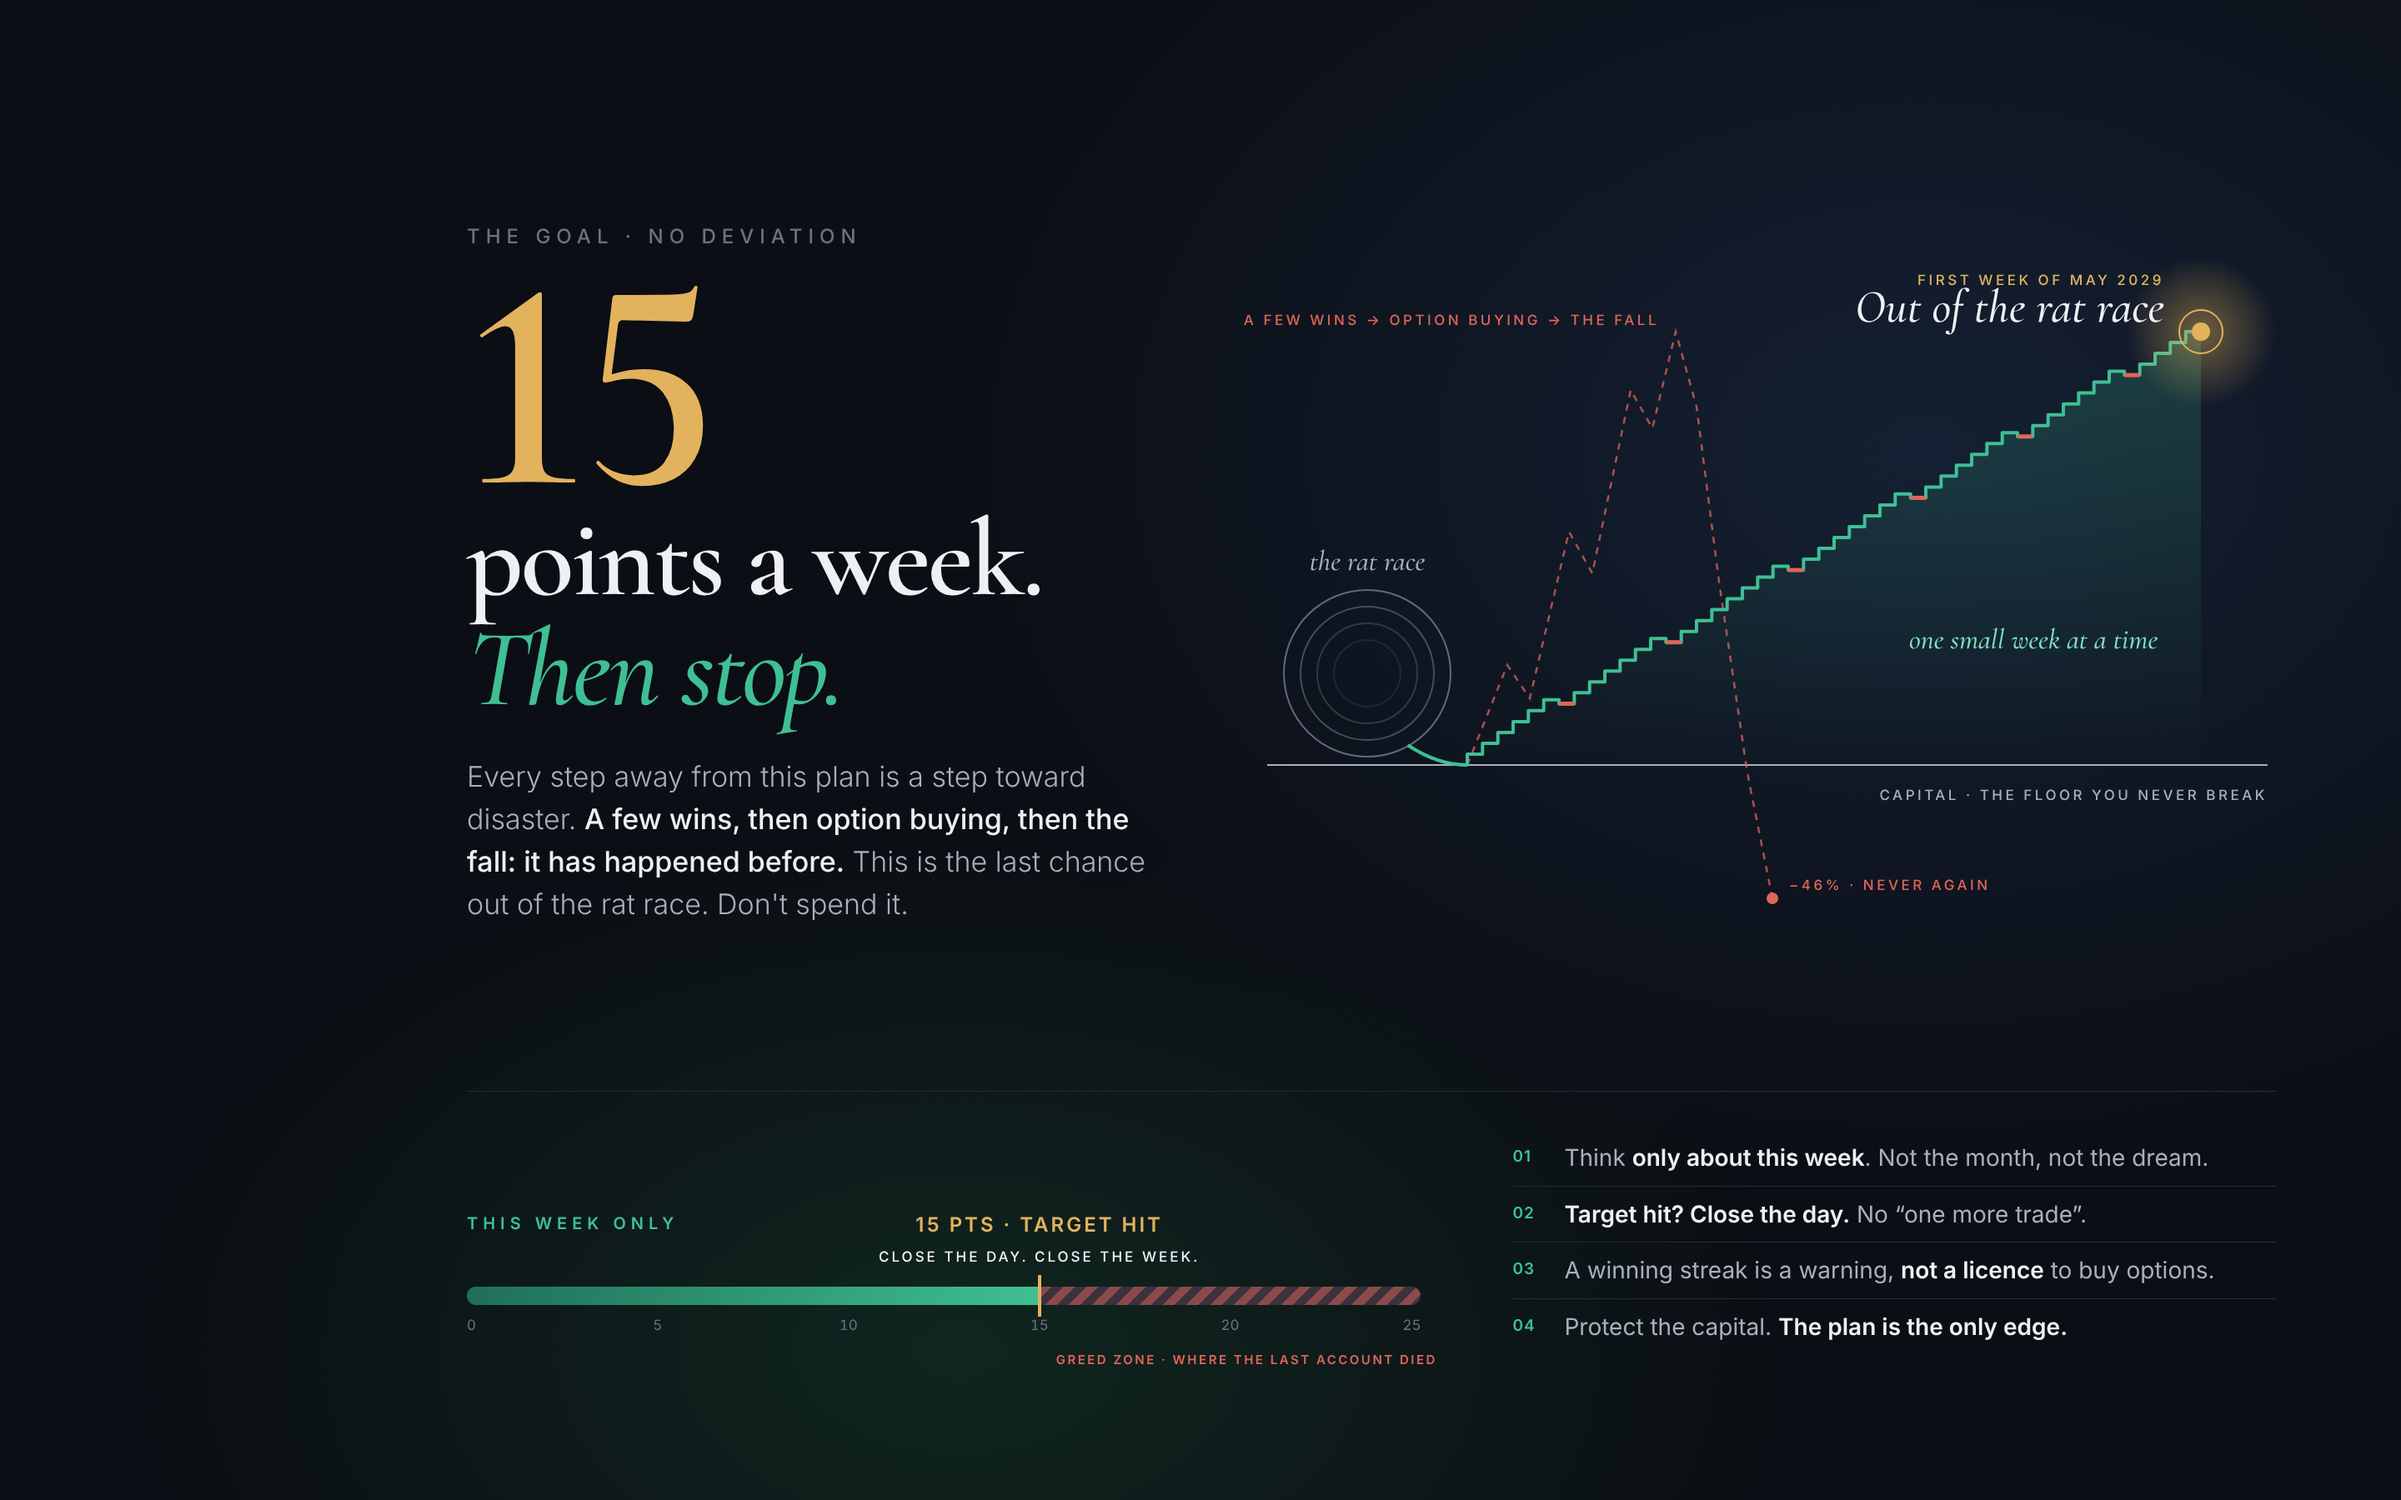
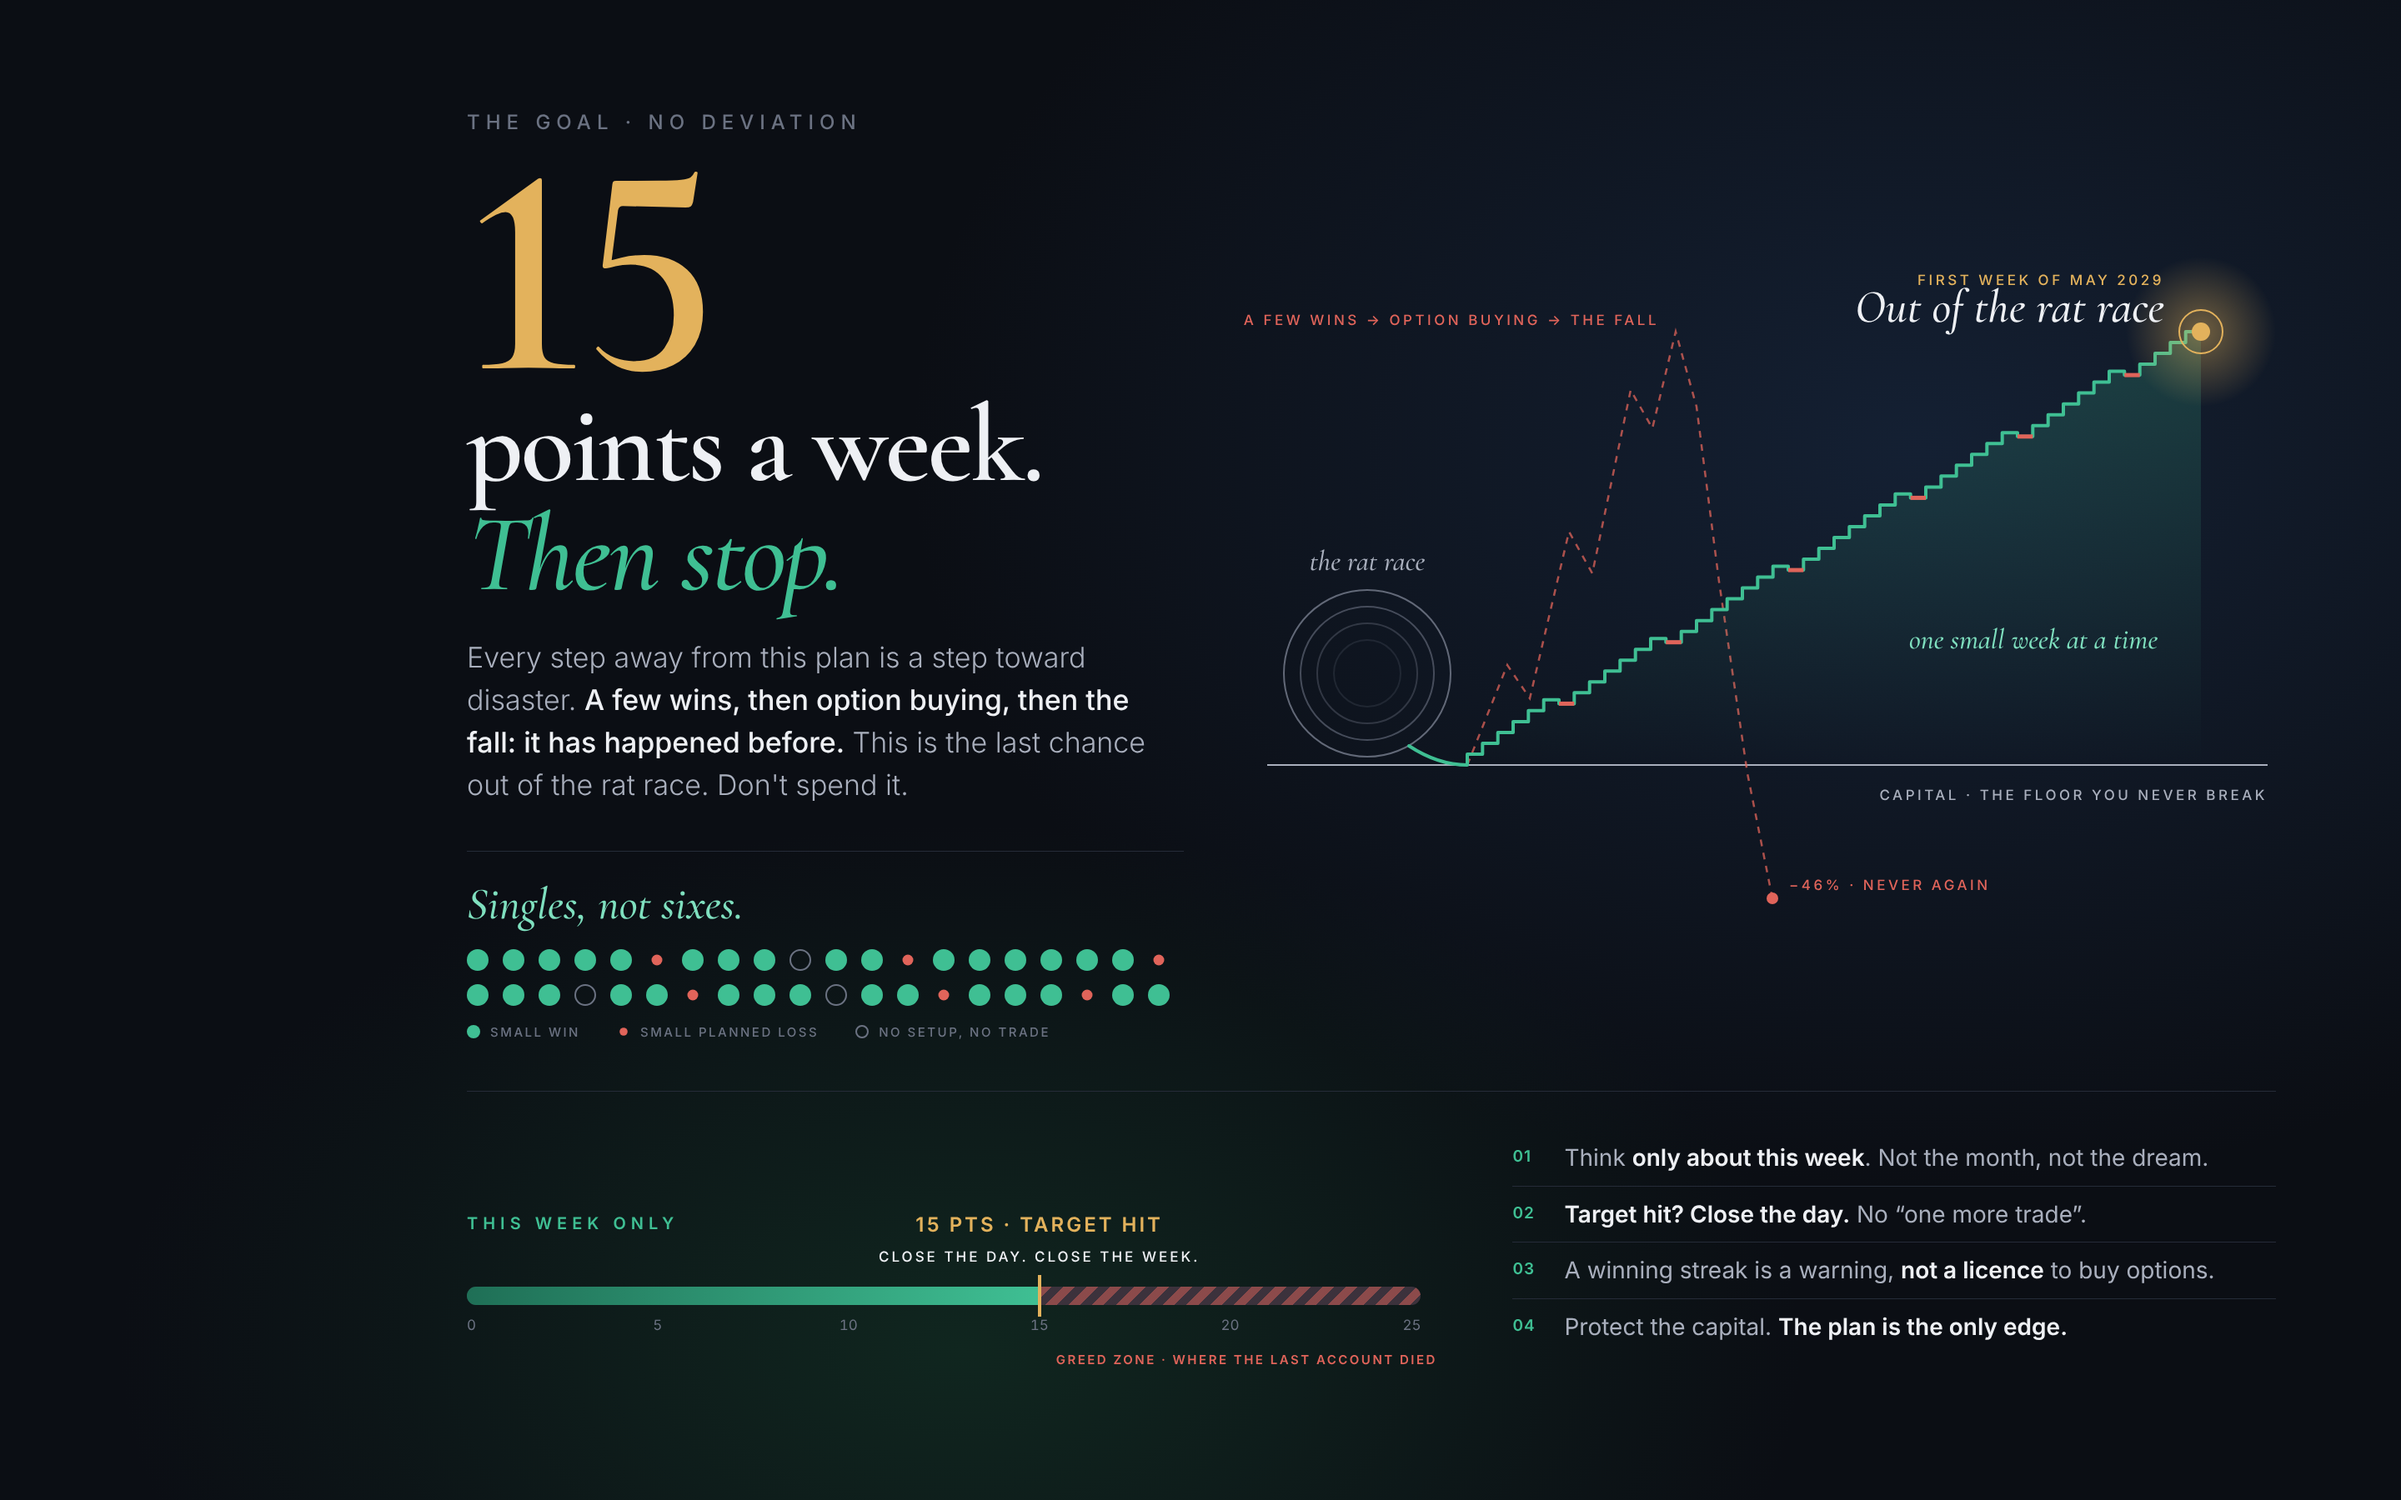
Add the singles-not-sixes dots to the wallpaper
Claude-Session: https://claude.ai/code/session_01EpPRxL16vocKPrzGEpsvaU

Changed region(s): [[0.1875, 0.0933, 0.5, 0.6844]]

diff --git a/vision-board/build_wallpaper.py b/vision-board/build_wallpaper.py
@@ -81,6 +81,13 @@ def meter():
 </div>"""
 
 
+def dots():
+    """Two rows of sessions: mostly small wins, a few small planned losses, some days with no trade."""
+    red, flat = {5, 12, 19, 26, 33, 37}, {9, 23, 30}
+    return "".join('<u class="r"></u>' if k in red else '<u class="o"></u>' if k in flat else '<u></u>'
+                   for k in range(40))
+
+
 def html():
     return f"""<!doctype html><html><head><meta charset="utf-8"><style>
 @font-face{{font-family:'Cormorant';font-weight:500;src:url('fonts/CormorantGaramond-500.ttf');}}
@@ -101,8 +108,19 @@ h1{{font-family:'Cormorant';font-weight:600;line-height:.86;margin-top:26px;lett
 h1 .n{{font-size:360px;color:{GOLD};display:block;line-height:.78;font-variant-numeric:lining-nums;font-feature-settings:"lnum" 1}}
 h1 .w{{font-size:132px;display:block;margin-top:10px}}
 h1 em{{font-size:132px;font-style:italic;font-weight:500;color:{GREEN};display:block;margin-top:18px}}
-.lede{{font-size:34px;line-height:1.5;color:{SOFT};font-weight:300;margin-top:46px;max-width:860px}}
+.lede{{font-size:34px;line-height:1.5;color:{SOFT};font-weight:300;margin-top:40px;max-width:860px}}
 .lede b{{color:{INK};font-weight:500}}
+.singles{{margin-top:54px;padding-top:30px;border-top:1px solid {RULE};max-width:900px}}
+.sh{{font-family:'Cormorant';font-style:italic;font-weight:500;font-size:54px;color:{GREEN_L};white-space:nowrap;margin-bottom:22px}}
+.lg{{display:flex;gap:44px;margin-top:22px;font-size:15px;letter-spacing:2.5px;color:{MUTED};font-weight:500}}
+.lg span{{display:flex;align-items:center;gap:12px}}
+.lg u{{width:16px;height:16px;border-radius:50%;background:{GREEN};display:block}}
+.lg u.r{{background:{RED};transform:scale(.6)}}
+.lg u.o{{background:none;border:2px solid {MUTED}}}
+.dots{{display:grid;grid-template-columns:repeat(20,1fr);gap:16px 0;justify-items:start}}
+.dots u{{width:26px;height:26px;border-radius:50%;background:{GREEN};display:block}}
+.dots u.r{{background:{RED};transform:scale(.5)}}
+.dots u.o{{background:none;border:2px solid {MUTED}}}
 svg .cap{{font-family:'Inter';font-size:17px;letter-spacing:3.5px;font-weight:500;fill:{SOFT}}}
 svg .it{{font-family:'Cormorant';font-style:italic;font-weight:500;font-size:34px}}
 svg .big{{font-family:'Cormorant';font-style:italic;font-weight:500;font-size:56px;fill:{INK}}}
@@ -137,6 +155,9 @@ svg .soft{{fill:{SOFT}}} svg .red{{fill:{RED}}} svg .green{{fill:{GREEN_L}}} svg
     <h1><span class="n">{TARGET}</span><span class="w">points a week.</span><em>Then stop.</em></h1>
     <p class="lede">Every step away from this plan is a step toward disaster. <b>A few wins, then option buying,
       then the fall: it has happened before.</b> This is the last chance out of the rat race. Don't spend it.</p>
+    <div class="singles"><div class="sh">Singles, not sixes.</div>
+      <div class="dots">{dots()}</div>
+      <div class="lg"><span><u></u>SMALL WIN</span><span><u class="r"></u>SMALL PLANNED LOSS</span><span><u class="o"></u>NO SETUP, NO TRADE</span></div></div>
   </div>
   <div class="art">{art()}</div>
 </section>

diff --git a/vision-board/README.md b/vision-board/README.md
@@ -14,4 +14,4 @@ Rebuild: `python3 build_board.py` (Node Playwright for the PNG, Chromium at /opt
 
 ## Desktop wallpaper
 
-`Wallpaper_15_Points_a_Week.png` (2880×1800, 16:10, dark): the weekly rule. 15 points a week, then stop. It shows the loop-to-May-2029 line art, a weekly meter where 15 points is the stop line and anything beyond is the greed zone, and four rules. The left ~500 px and bottom ~120 px are kept clear for desktop icons and the taskbar. Rebuild with `python3 build_wallpaper.py`; the target is `TARGET` at the top of the script.
+`Wallpaper_15_Points_a_Week.png` (2880×1800, 16:10, dark): the weekly rule. 15 points a week, then stop. It shows the loop-to-May-2029 line art, a "singles, not sixes" dot grid, a weekly meter where 15 points is the stop line and anything beyond is the greed zone, and four rules. The left ~500 px and bottom ~120 px are kept clear for desktop icons and the taskbar. Rebuild with `python3 build_wallpaper.py`; the target is `TARGET` at the top of the script.
